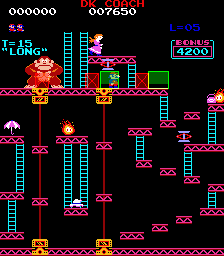
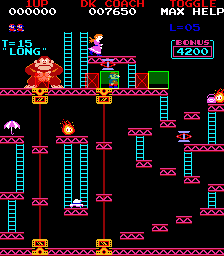
Minor updates after testing

diff --git a/readme.md b/readme.md
@@ -2,17 +2,17 @@
 
 ## A MAME plugin to assist with Donkey Kong gameplay 
 
-Tested with MAME version 0.234
-Compatible with MAME versions from 0.196
+Tested with latest MAME version 0.234
+(Compatible with MAME and WolfMAME versions from 0.196 upwards)
 
-At the moment,  the plugin only helps you with the springs stage.
+At the moment,  the plugin only helps you with the springs stage.  I plan to add help to all other stages.
 
 ### Springs Stage
 
-The helper visualises zones and provide you with information about the generated springs to help you navigate on DK's girder and climb the ladder safely.
+The helper visualises the safe zones and danger zones on DK's girder.  The displayed information about generated springs helps you make quick decisions on when to make a run and when to sit tight or retreat back to safety.
 
- - Fixed safe zones appear in translucent green on DK's girder
- - Variable danger zones appear in translucent red on DK's girder.  Danger zones update progressively more quickly as you progress from level 1 to level 4.  Level 4 to level 22 are the same.
+ - 2 fixed safe zones appear in translucent green on DK's girder
+ - 3 variable danger zones appear in translucent red on DK's girder.  These zones mark the location of the bouncing spring.  The danger zones update progressively more quickly as you progress from level 1 to level 4.  Level 4 to level 22 are the same.
  - All generated springs are assigned a "spring type" of between 0 and 15 depending on their length.  The shortest spring has type 0,  the longest has type 15.
  - The spring type appears in the top-left of screen, close to where the springs are released.
  - An alert appears for short (0-6) and long (12-15) springs.  Helping you to identify these springs so you can react quickly.
@@ -23,16 +23,27 @@ Use "P2 Start" to toggle the helpfulness setting between 2 (Max Help), 1 (Min He
 ![Screenshot](https://github.com/10yard/dkcoach/blob/master/screenshot.png)
 
 
-#### Process for progressing on the springs stage.
+#### Process for progressing on the springs stage level 4+.
 
  - Navigate Jumpman to the first green safe spot on the far right of DK's girder.
  - Move to the left edge of the safe spot, ensuring that Jumpman's feet remain inside the box.
  - Wait for a short spring to come.  When you see it, move "slightly" to the left so you are closer to the 2nd safe spot,  ensuring the spring does not hit you.  When it goes over, you need to run quickly to the 2nd safe spot.
  - Breathe.  That's the first part done.
  - Move to the right edge of the 2nd safe spot, ensuring that Jumpman's feet remain inside the box.
- - Wait for a long spring to come.  When you see it,  make a run for the ladder,  keeping your eye on the next generated spring, it must be short spring if you are to make it up the ladder.  If it is not short then you must retreat to the safe spot quickly. 
- - Get used to watching the springs and recogising their types as they appear from the left
- - As you get more confident on the stage,  you can remove some of the helpers by pressing "P2 Start" button.
+ - Wait for a long spring to come.  When you see it,  make a run for the ladder,  keeping your eye on the next generated spring, it must be a short spring if you are to make it up the ladder.  If it is not short then you must retreat back to the safe spot quickly. 
+ - Get used to watching the springs and recogising their types as they appear from the left.
+ - As you become more confident on the springs stage,  you should reduce helpers by pressing "P2 Start" button.  See "Help Settings" below.
+ 
+
+### Help Settings
+
+The default setting is "Max Help".  Toggle the setting by pressing "P2 Start".
+  - Max Help: All of the available helpers are displayed.
+  - Min Help: Only basic helpers are displayed
+  - No Help: No help is displayed.
+
+As you become more confident with your gameplay,  you should reduce help features by pressing "P2 Start" button.  Switching from "Max Help" to "Min Help" to "No Help".
+   
  
 ### Installing
  
